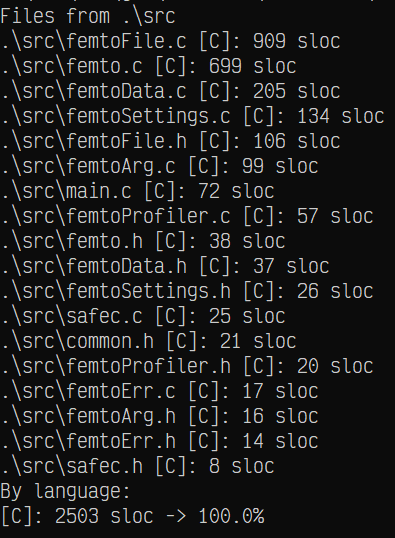
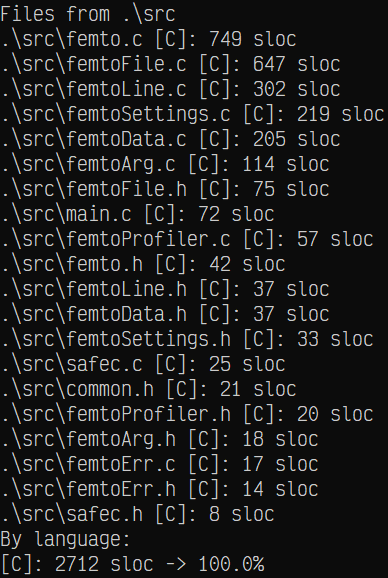
Tweaks, bug-fixes

diff --git a/src/femtoSettings.c b/src/femtoSettings.c
@@ -16,7 +16,7 @@ void femtoSettings_reset(femtoSettings_t * restrict self)
 		.tabSpaceStr1 = NULL,
 		.tabSpaceStr2 = NULL,
 
-		.insertTabs = true,
+		.autoIndent = true,
 
 
 		.lastErr = { 0 }
@@ -138,19 +138,7 @@ femtoErr_t femtoSettings_populate(femtoSettings_t * restrict self, int argc, con
 	femtoArg_fetchArgv(argc, argv, L"tabsSpaces", &mi, 1, &tabs);
 	if (mi != 0)
 	{
-		if (((tabs.end - tabs.begin) >= 4) && (wcsncmp(tabs.begin, L"true", 4) == 0))
-		{
-			self->tabsToSpaces = true;
-		}
-		else if (((tabs.end - tabs.begin) >= 5) && (wcsncmp(tabs.begin, L"false", 5) == 0))
-		{
-			self->tabsToSpaces = false;
-		}
-		else
-		{
-			// String to int conversion
-			self->tabsToSpaces = wcstol(tabs.begin, NULL, 10) != 0;
-		}
+		self->tabsToSpaces = femtoArg_strToBool(tabs);
 		argumentsUsed[mi - 1] = true;
 	}
 
@@ -168,6 +156,22 @@ femtoErr_t femtoSettings_populate(femtoSettings_t * restrict self, int argc, con
 			return femtoErr_memory;
 		}
 
+		argumentsUsed[mi - 1] = true;
+	}
+
+	femtoArg_t aindent;
+	femtoArg_fetchArgv(argc, argv, L"autoindent", &mi, 1, &aindent);
+	if (mi == 0)
+	{
+		femtoArg_fetchArgv(argc, argv, L"autoi", &mi, 1, &aindent);
+	}
+	if (mi == 0)
+	{
+		femtoArg_fetchArgv(argc, argv, L"aindent", &mi, 1, &aindent);
+	}
+	if (mi != 0)
+	{
+		self->autoIndent = femtoArg_strToBool(aindent);
 		argumentsUsed[mi - 1] = true;
 	}
 

diff --git a/src/femtoFile.c b/src/femtoFile.c
@@ -454,7 +454,7 @@ bool femtoFile_addSpecialCh(femtoFile_t * restrict self, uint32_t height, wchar_
 		self->data.lastx = self->data.currentNode->curx;
 		break;
 	case VK_RETURN:	// Enter key
-		femtoFile_addNewLine(self, pset->tabsToSpaces, pset->insertTabs);
+		femtoFile_addNewLine(self, pset->tabsToSpaces, pset->autoIndent);
 		self->data.lastx = self->data.currentNode->curx;
 		break;
 	case VK_BACK:	// Backspace
@@ -638,10 +638,10 @@ bool femtoFile_deleteBackward(femtoFile_t * restrict self)
 		return false;
 	}
 }
-bool femtoFile_addNewLine(femtoFile_t * restrict self, bool tabsToSpaces, bool insertTabs)
+bool femtoFile_addNewLine(femtoFile_t * restrict self, bool tabsToSpaces, bool autoIndent)
 {
 	assert(self != NULL);
-	femtoLineNode_t * node = femtoLine_create(self->data.currentNode, self->data.currentNode->nextNode, tabsToSpaces, insertTabs);
+	femtoLineNode_t * node = femtoLine_create(self->data.currentNode, self->data.currentNode->nextNode, tabsToSpaces, autoIndent);
 	if (node == NULL)
 	{
 		return false;

diff --git a/src/femtoLine.h b/src/femtoLine.h
@@ -25,10 +25,10 @@ typedef struct femtoLineNode
  * @param curnode Pointer to current line node, can be NULL
  * @param nextnode Pointer to next line node, can be NULL
  * @param tabsToSpaces Tabs are converted to spaces
- * @param insertTabs Automatically insert tabs to match whitespace of the previous line
+ * @param autoIndent Automatically insert tabs to match whitespace of the previous line
  * @return femtoLineNode_t* Pointer to newly created line node, NULL on failure
  */
-femtoLineNode_t * femtoLine_create(femtoLineNode_t * restrict curnode, femtoLineNode_t * restrict nextnode, bool tabsToSpaces, bool insertTabs);
+femtoLineNode_t * femtoLine_create(femtoLineNode_t * restrict curnode, femtoLineNode_t * restrict nextnode, bool tabsToSpaces, bool autoIndent);
 /**
  * @brief Creates new line in-between current line and next line
  * 

diff --git a/src/femtoLine.c b/src/femtoLine.c
@@ -1,7 +1,7 @@
 #include "femtoLine.h"
 
 
-femtoLineNode_t * femtoLine_create(femtoLineNode_t * restrict curnode, femtoLineNode_t * restrict nextnode, bool tabsToSpaces, bool insertTabs)
+femtoLineNode_t * femtoLine_create(femtoLineNode_t * restrict curnode, femtoLineNode_t * restrict nextnode, bool tabsToSpaces, bool autoIndent)
 {
 	femtoLineNode_t * node = malloc(sizeof(femtoLineNode_t));
 	if (node == NULL)
@@ -12,7 +12,7 @@ femtoLineNode_t * femtoLine_create(femtoLineNode_t * restrict curnode, femtoLine
 	wchar_t tch = tabsToSpaces ? L' ' : L'\t';
 
 	uint32_t space = 0;
-	if (insertTabs)
+	if (autoIndent)
 	{
 		for (uint32_t i = 0; i < curnode->lineEndx;)
 		{

diff --git a/src/femtoFile.h b/src/femtoFile.h
@@ -171,11 +171,11 @@ bool femtoFile_deleteBackward(femtoFile_t * restrict self);
  * 
  * @param self Pointer to femtoFile_t structure
  * @param tabsToSpaces Tabs are converted to spaces
- * @param insertTabs Automatically insert tabs to match whitespace of the previous line
+ * @param autoIndent Automatically insert tabs to match whitespace of the previous line
  * @return true Success
  * @return false Failure
  */
-bool femtoFile_addNewLine(femtoFile_t * restrict self, bool tabsToSpaces, bool insertTabs);
+bool femtoFile_addNewLine(femtoFile_t * restrict self, bool tabsToSpaces, bool autoIndent);
 /**
  * @brief Updates current viewpoint if necessary
  * 

diff --git a/src/femtoArg.c b/src/femtoArg.c
@@ -1,5 +1,22 @@
 #include "femtoArg.h"
 
+bool femtoArg_strToBool(femtoArgument_t arg)
+{
+	if (((arg.end - arg.begin) >= 4) && (wcsncmp(arg.begin, L"true", 4) == 0))
+	{
+		return true;
+	}
+	else if (((arg.end - arg.begin) >= 5) && (wcsncmp(arg.begin, L"false", 5) == 0))
+	{
+		return false;
+	}
+	else
+	{
+		// String to int conversion
+		return wcstol(arg.begin, NULL, 10) != 0;
+	}
+}
+
 uint32_t femtoArg_fetch(const wchar_t * restrict rawStr, int32_t maxStr, const wchar_t * restrict argMatch, uint32_t maxParams, ...)
 {
 	va_list ap;

diff --git a/src/femtoArg.h b/src/femtoArg.h
@@ -8,6 +8,13 @@ typedef struct femtoArgument
 	const wchar_t * begin, * end;
 } femtoArgument_t, femtoArg_t;
 
+/**
+ * @brief Convert string to boolean
+ * 
+ * @param arg String wrapper
+ */
+bool femtoArg_strToBool(femtoArgument_t arg);
+
 
 /**
  * @brief Fetches individual parameters from raw command-line argument

diff --git a/src/femtoSettings.h b/src/femtoSettings.h
@@ -22,7 +22,7 @@ typedef struct femtoSettings
 	wchar_t * tabSpaceStr1;	// Contains space characters
 	wchar_t * tabSpaceStr2;	// Contains tab characters
 
-	bool insertTabs;
+	bool autoIndent;
 
 
 	wchar_t lastErr[FEMTO_SETTINGS_ERR_MAX];

diff --git a/README.md b/README.md
@@ -10,7 +10,7 @@ It is a bigger more feature-rich version of my other console text editor [atto](
 It is also written in vanilla C + Win32 Console API - it's designed to be used solely on Microsoft Windows.
 It has been compiled with MinGW GCC.
 
-Currently, my other tool [slocWin32](https://github.com/makuke1234/slocWin32) reports ~2500 source code lines (excluding whitespace & comments):
+Currently, my other tool [slocWin32](https://github.com/makuke1234/slocWin32) reports ~2700 source code lines (excluding whitespace & comments):
 
 ![SLOC](./images/sloc.png)
 
@@ -30,8 +30,9 @@ Currently, my other tool [slocWin32](https://github.com/makuke1234/slocWin32) re
 - [x] Mouse scrolling, also horizontal scrolling
 - [x] Mouse operated text cursor
 - [ ] Proper tab support, optional tabs-to-spaces, tab width adjustment, by default tab is 4 spaces wide
+- [x] Automatic indentation, on by default
 - [x] Optional settings JSON file, can be named either `femto.json`, `femto-settings.json`, `femto_settings.json` or `settings.json`
-    * *If multiple files exist with any of the names above, the settings file will be selected following the order above*
+    * *If multiple files exist with any of the names above, the settings file will be selected following this exact order*
 - [x] All settings can be given by command line arguments
 - [ ] Multi-file support
 - [x] Keyboard shortcuts:
@@ -90,6 +91,9 @@ Currently, my other tool [slocWin32](https://github.com/makuke1234/slocWin32) re
     | --tabsSpaces=\[value\] | Value can be either true/false or 1/0             |
     | --tabWidth=\[value\]   | Value can be any number from 1-32                 |
     | --tabw=\[value\]       | Same as above                                     |
+    | --autoindent=\[value\] | Value can be either true/false or 1/0             |
+    | --autoi=\[value\]      | Same as above                                     |
+    | --aindent=\[value\]    | Same as above                                     |
 
 
 # Screenshots
@@ -107,6 +111,7 @@ Currently, my other tool [slocWin32](https://github.com/makuke1234/slocWin32) re
 # Changelog
 
 * 1.1 (planned)
+    * [x] Automatic indentation, turned on by default, new settings
     * [ ] Line numbers, absolute & relative mode
     * [ ] Warning about any unsaved work
     * [ ] Practical multi-file support
@@ -158,3 +163,4 @@ users, the [changelog](#Changelog) may be more useful to keep track of the progr
 # License
 
 This project is using the MIT license.
+
